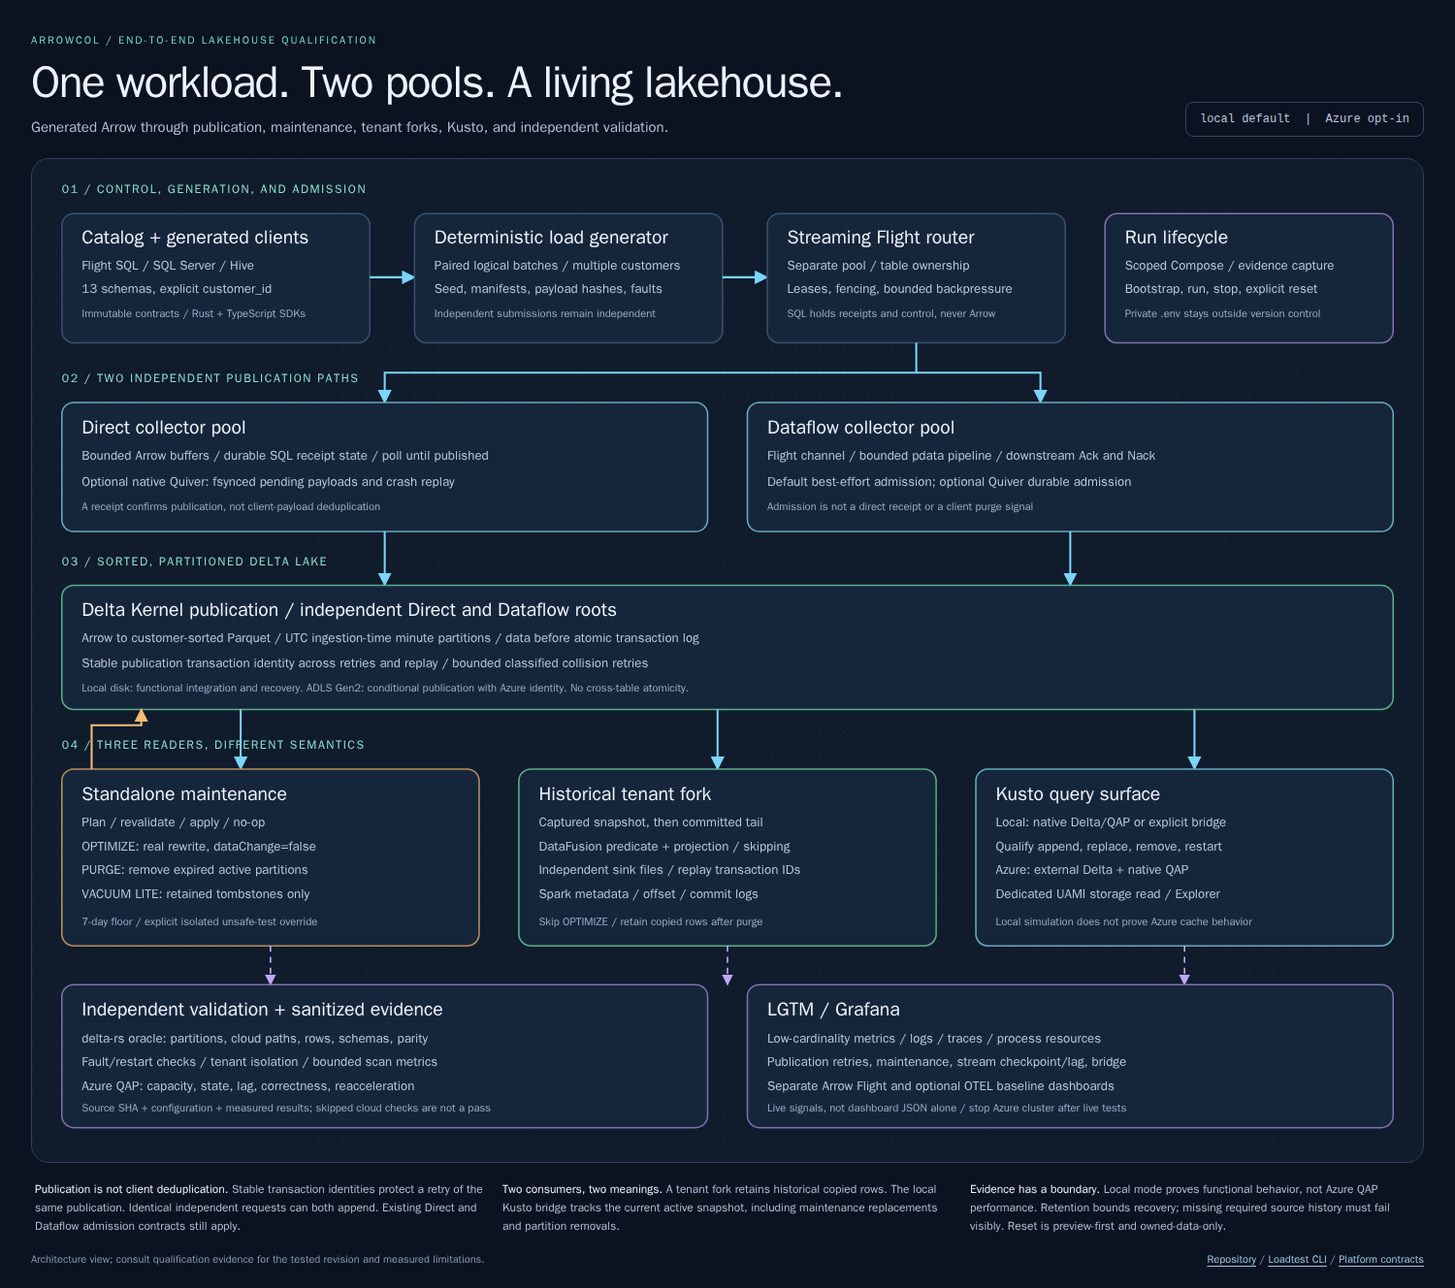
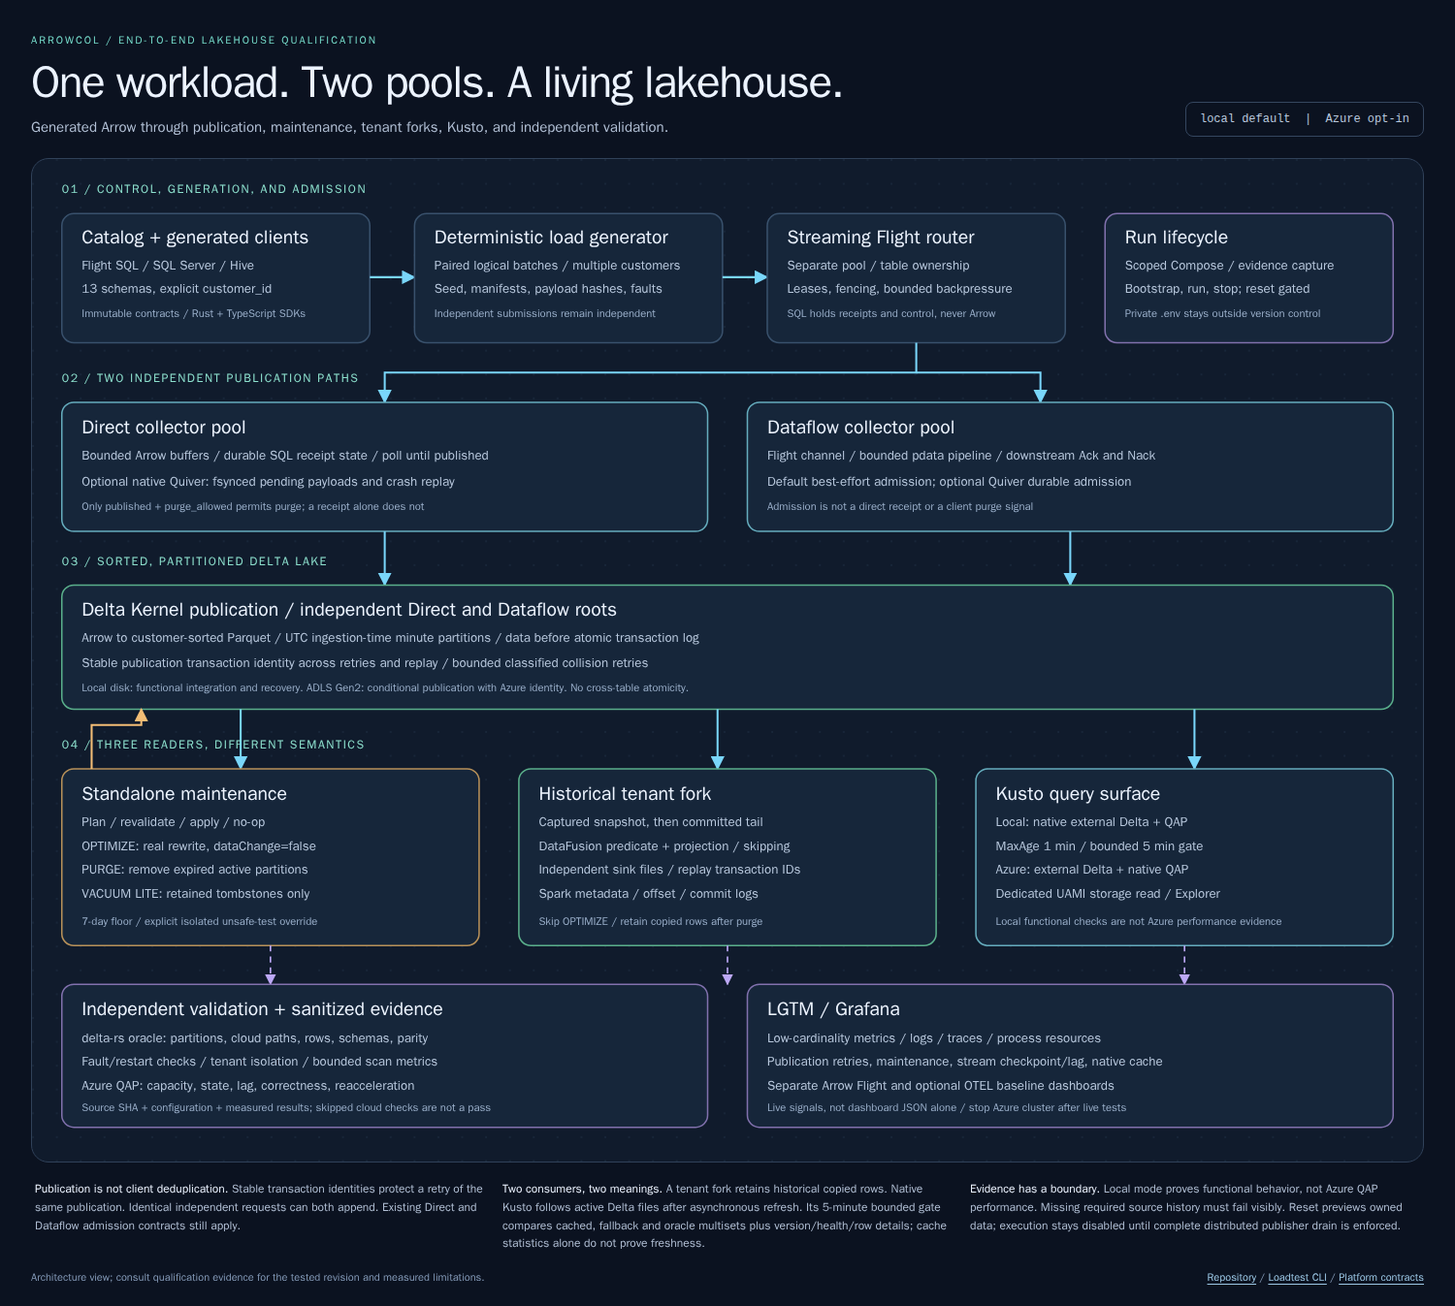
feat(integration): reconcile service images and native lakehouse architecture
Discover seven source images in dynamic CI, add maintenance publication/cache policy and dependency-aware tenant linting. Document native QAP correctness gates, reset execution barrier and explicit layout qualification; refresh actual browser snapshot provenance.

diff --git a/loadtest-architecture.html b/loadtest-architecture.html
@@ -49,7 +49,7 @@
   <div class="canvas" tabindex="0" role="region" aria-label="Lakehouse loadtest architecture; scroll horizontally on small screens">
     <svg xmlns="http://www.w3.org/2000/svg" viewBox="0 0 1400 1010" role="img" aria-labelledby="title description">
       <title id="title">ArrowCol lakehouse loadtest architecture</title>
-      <desc id="description">Thirteen multi-customer schemas generate paired Arrow traffic through a router to independent Direct and Dataflow collector pools. SQL Server and Hive own catalog and control metadata, not payloads. Optional Quiver persists pending Arrow. Delta Kernel publishes sorted, ingestion-time-partitioned Parquet to independent local or ADLS roots. Standalone maintenance optimizes, purges and vacuums safely. A historical tenant fork captures a snapshot then tails data changes into an independent sink with Spark-compatible recovery logs. Local Kusto uses qualified native external Delta and QAP or an explicit active-snapshot bridge; Azure Kusto uses managed identity, external Delta and query acceleration. An independent delta-rs oracle validates results. Metrics, logs and traces feed LGTM. Cloud performance and local functional evidence remain distinct.</desc>
+      <desc id="description">Thirteen multi-customer schemas generate paired Arrow traffic through a router to independent Direct and Dataflow collector pools. SQL Server and Hive own catalog and control metadata, not payloads. Optional Quiver persists pending Arrow. Delta Kernel publishes sorted, ingestion-time-partitioned Parquet to independent local or ADLS roots. Standalone maintenance optimizes, purges and vacuums safely. A historical tenant fork captures a snapshot then tails data changes into an independent sink with Spark-compatible recovery logs. Local Kusto uses native external Delta and QAP with asynchronous cache refresh; Azure Kusto uses managed identity, external Delta and query acceleration. An independent delta-rs oracle validates results. Metrics, logs and traces feed LGTM. Cloud performance and local functional evidence remain distinct.</desc>
       <defs>
         <pattern id="grid" width="24" height="24" patternUnits="userSpaceOnUse"><circle cx="1" cy="1" r=".7" fill="#24354c"/></pattern>
         <marker id="arrow" viewBox="0 0 10 10" refX="9" refY="5" markerWidth="7" markerHeight="7" orient="auto"><path d="M0 0 10 5 0 10Z" fill="#79d6fa"/></marker>
@@ -78,7 +78,7 @@
       <rect x="1080" y="55" width="290" height="130" rx="12" class="box" style="stroke:#8171ad"/>
       <text x="1100" y="85" class="title">Run lifecycle</text>
       <text x="1100" y="111" class="body">Scoped Compose / evidence capture</text>
-      <text x="1100" y="135" class="body">Bootstrap, run, stop, explicit reset</text>
+      <text x="1100" y="135" class="body">Bootstrap, run, stop; reset gated</text>
       <text x="1100" y="159" class="small">Private .env stays outside version control</text>
       <path d="M890 185V215H355V245" class="edge"/>
       <path d="M890 215H1015V245" class="edge"/>
@@ -87,7 +87,7 @@
       <text x="50" y="276" class="title">Direct collector pool</text>
       <text x="50" y="303" class="body">Bounded Arrow buffers / durable SQL receipt state / poll until published</text>
       <text x="50" y="329" class="body">Optional native Quiver: fsynced pending payloads and crash replay</text>
-      <text x="50" y="353" class="small">A receipt confirms publication, not client-payload deduplication</text>
+      <text x="50" y="353" class="small">Only published + purge_allowed permits purge; a receipt alone does not</text>
       <rect x="720" y="245" width="650" height="130" rx="12" class="box" style="stroke:#65acbd"/>
       <text x="740" y="276" class="title">Dataflow collector pool</text>
       <text x="740" y="303" class="body">Flight channel / bounded pdata pipeline / downstream Ack and Nack</text>
@@ -122,11 +122,11 @@
       <text x="510" y="771" class="small">Skip OPTIMIZE / retain copied rows after purge</text>
       <rect x="950" y="614" width="420" height="178" rx="12" class="box" style="stroke:#65acbd"/>
       <text x="970" y="645" class="title">Kusto query surface</text>
-      <text x="970" y="672" class="body">Local: native Delta/QAP or explicit bridge</text>
-      <text x="970" y="696" class="body">Qualify append, replace, remove, restart</text>
+      <text x="970" y="672" class="body">Local: native external Delta + QAP</text>
+      <text x="970" y="696" class="body">MaxAge 1 min / bounded 5 min gate</text>
       <text x="970" y="720" class="body">Azure: external Delta + native QAP</text>
       <text x="970" y="744" class="body">Dedicated UAMI storage read / Explorer</text>
-      <text x="970" y="771" class="small">Local simulation does not prove Azure cache behavior</text>
+      <text x="970" y="771" class="small">Local functional checks are not Azure performance evidence</text>
       <path d="M240 792V831" class="signal"/>
       <path d="M700 792V831" class="signal"/>
       <path d="M1160 792V831" class="signal"/>
@@ -139,15 +139,15 @@
       <rect x="720" y="831" width="650" height="144" rx="12" class="box" style="stroke:#8171ad"/>
       <text x="740" y="862" class="title">LGTM / Grafana</text>
       <text x="740" y="889" class="body">Low-cardinality metrics / logs / traces / process resources</text>
-      <text x="740" y="913" class="body">Publication retries, maintenance, stream checkpoint/lag, bridge</text>
+      <text x="740" y="913" class="body">Publication retries, maintenance, stream checkpoint/lag, native cache</text>
       <text x="740" y="937" class="body">Separate Arrow Flight and optional OTEL baseline dashboards</text>
       <text x="740" y="959" class="small">Live signals, not dashboard JSON alone / stop Azure cluster after live tests</text>
     </svg>
   </div>
   <div class="notes">
     <div><strong>Publication is not client deduplication.</strong> Stable transaction identities protect a retry of the same publication. Identical independent requests can both append. Existing Direct and Dataflow admission contracts still apply.</div>
-    <div><strong>Two consumers, two meanings.</strong> A tenant fork retains historical copied rows. The local Kusto bridge tracks the current active snapshot, including maintenance replacements and partition removals.</div>
-    <div><strong>Evidence has a boundary.</strong> Local mode proves functional behavior, not Azure QAP performance. Retention bounds recovery; missing required source history must fail visibly. Reset is preview-first and owned-data-only.</div>
+    <div><strong>Two consumers, two meanings.</strong> A tenant fork retains historical copied rows. Native Kusto follows active Delta files after asynchronous refresh. Its 5-minute bounded gate compares cached, fallback and oracle multisets plus version/health/row details; cache statistics alone do not prove freshness.</div>
+    <div><strong>Evidence has a boundary.</strong> Local mode proves functional behavior, not Azure QAP performance. Missing required source history must fail visibly. Reset previews owned data; execution stays disabled until complete distributed publisher drain is enforced.</div>
   </div>
   <footer>
     <span>Architecture view; consult qualification evidence for the tested revision and measured limitations.</span>

diff --git a/tools/scripts/test/image-plan.test.ts b/tools/scripts/test/image-plan.test.ts
@@ -17,6 +17,9 @@ import {
 const workspace = fileURLToPath(new URL('../../../', import.meta.url));
 
 function projectPath(project: string): string {
+  if (project === 'delta-maintenance' || project === 'arrow-tenant-stream') {
+    return `crates/${project}/project.json`;
+  }
   return project === 'hello-world'
     ? 'bin/hello-world/project.json'
     : `projects/${project}/project.json`;
@@ -45,6 +48,8 @@ test('discovers production images and retains the sample publication', () => {
     'arrowcol-dataflow-rust',
     'arrowcol-router-rust',
     'kusto-bridge',
+    'delta-maintenance',
+    'arrow-tenant-stream',
     'kusto-explorer',
   ]);
   assert.deepEqual(RETAINED_RUNTIME_IMAGE_PROJECTS, ['hello-world']);
@@ -99,7 +104,7 @@ const COLLECTOR_IMAGE_PROJECTS = [
 ];
 // Web images compile a wasm UI and serve read-only static assets instead of configuration files.
 const WEB_IMAGE_PROJECTS = ['kusto-explorer'];
-const SERVICE_IMAGE_PROJECTS = ['kusto-bridge'];
+const SERVICE_IMAGE_PROJECTS = ['kusto-bridge', 'delta-maintenance', 'arrow-tenant-stream'];
 
 test('every production runtime image is classified for Dockerfile policy', () => {
   assert.deepEqual(
@@ -111,7 +116,7 @@ test('every production runtime image is classified for Dockerfile policy', () =>
 test('runtime Dockerfiles pin build and runtime bases and enforce production boundaries', () => {
   for (const project of PRODUCTION_RUNTIME_IMAGE_PROJECTS) {
     const dockerfile = readFileSync(
-      join(workspace, `projects/${project}/Dockerfile`),
+      join(workspace, projectPath(project).replace(/project\.json$/u, 'Dockerfile')),
       'utf8',
     );
     assert.match(
@@ -133,9 +138,17 @@ test('runtime Dockerfiles pin build and runtime bases and enforce production bou
       project,
     );
     assert.match(dockerfile, /COPY submodules\/otel-arrow/u, project);
-    assert.match(dockerfile, /ca-certificates/u, project);
-    if (!SERVICE_IMAGE_PROJECTS.includes(project)) {
-      assert.match(dockerfile, /ca-certificates curl/u, project);
+    if (dockerfile.includes('sh /tmp/install-azure-cli.sh')) {
+      assert.match(
+        dockerfile,
+        /COPY(?: --chmod=\d+)? infra\/docker\/install-azure-cli\.sh \/tmp\/install-azure-cli\.sh/u,
+        project,
+      );
+    } else {
+      assert.match(dockerfile, /ca-certificates/u, project);
+      if (!SERVICE_IMAGE_PROJECTS.includes(project)) {
+        assert.match(dockerfile, /ca-certificates curl/u, project);
+      }
     }
     assert.match(
       dockerfile,
@@ -165,10 +178,28 @@ test('runtime Dockerfiles pin build and runtime bases and enforce production bou
       assert.match(dockerfile, /find \/out\/www -type f -exec chmod 0444/u, project);
       assert.match(dockerfile, /COPY --from=builder --chmod=0555/u, project);
     } else {
-      assert.match(dockerfile, /install -D --mode=0555/u, project);
+      assert.match(dockerfile, /(?:install (?:-D )?--mode=0555|COPY --from=builder --chmod=0555)/u, project);
       assert.match(dockerfile, /COPY --from=builder/u, project);
     }
   }
+});
+
+test('Kernel consumer lint caches include their library dependencies', () => {
+  const projects = workspaceProjects();
+  for (const project of ['delta-maintenance', 'arrow-tenant-stream']) {
+    const config = projects[project];
+    assert(config, project);
+    assert(config.implicitDependencies?.includes('arrow-deltalake'), project);
+    assert.deepEqual(config.targets?.lint?.inputs, ['default', '^default'], project);
+  }
+});
+
+test('shared CLI helper installs TLS prerequisites through a signed pinned repository', () => {
+  const helper = readFileSync(join(workspace, 'infra/docker/install-azure-cli.sh'), 'utf8');
+  assert.match(helper, /apt-get install -y --no-install-recommends ca-certificates curl gpg/u);
+  assert.match(helper, /sha256sum --check --strict -/u);
+  assert.match(helper, /signed-by=\/usr\/share\/keyrings\/arrowcol-azure-cli\.gpg/u);
+  assert.match(helper, /apt-get install -y --no-install-recommends azure-cli=\d+\.\d+\.\d+-1~bookworm/u);
 });
 
 test('Explorer context override retains root exclusions before browser-only exclusions', () => {
@@ -241,7 +272,10 @@ test('publish workflow discovers, smokes, publishes, and verifies the matrix wit
 
   const paths = new Set(workflow.on.push.paths);
   for (const project of PRODUCTION_RUNTIME_IMAGE_PROJECTS) {
-    assert(paths.has(`projects/${project}/**`), project);
+    const source = projectPath(project).startsWith('crates/')
+      ? 'crates/**'
+      : `projects/${project}/**`;
+    assert(paths.has(source), project);
   }
   assert(paths.has('bin/hello-world/**'));
   assert(paths.has('crates/**'));

diff --git a/tools/scripts/test/clean.test.ts b/tools/scripts/test/clean.test.ts
@@ -173,6 +173,7 @@ test('every project exposes clean and the root includes every child', () => {
     'crates/arrowcol-sql-server/project.json',
     'crates/arrow-deltalake/project.json',
     'crates/arrow-tenant-stream/project.json',
+    'crates/delta-maintenance/project.json',
     'crates/greeting/project.json',
     'crates/otel-deltalake-exporter/project.json',
     'projects/arrowcol-dataflow-rust/project.json',

diff --git a/tools/scripts/src/image-plan.ts b/tools/scripts/src/image-plan.ts
@@ -17,6 +17,8 @@ export const PRODUCTION_RUNTIME_IMAGE_PROJECTS = [
   'arrowcol-dataflow-rust',
   'arrowcol-router-rust',
   'kusto-bridge',
+  'delta-maintenance',
+  'arrow-tenant-stream',
   'kusto-explorer',
 ] as const;
 

diff --git a/docs/architecture/loadtest/README.md b/docs/architecture/loadtest/README.md
@@ -38,18 +38,28 @@ comes from `ARROWCOL_MODE`, falling back to `local`.
 | Surface | Local mode | Azure mode |
 | --- | --- | --- |
 | Source Delta | Local disk, separate pool roots | ADLS Gen2, separate pool roots |
-| Kusto | Emulator: qualified native external Delta/QAP, or an explicit active-snapshot bridge | External Delta tables with native Query Acceleration Policy |
+| Kusto | Pinned emulator: native external Delta with Query Acceleration Policy | External Delta tables with native Query Acceleration Policy |
 | Storage identity | Scoped local mounts | Existing Azure CLI writer identity; dedicated Kusto storage-read UAMI |
 | Evidence | Functional integration, active-file visibility, recovery | Real QAP state, capacity, lag, correctness, and reacceleration |
 
-The emulator is not a performance benchmark or proof of Azure cache internals.
-Native external-Delta/QAP support must be qualified against the pinned emulator
-and bounded refresh/recovery checks, not inferred from management-command
-acceptance alone. When the explicit bridge is selected, it tracks the current
-active snapshot, including OPTIMIZE replacements and partition removals.
-A tenant fork has intentionally different
-semantics: capture a snapshot, tail logical appends, ignore OPTIMIZE, and retain
-already-copied rows after source purge.
+The emulator is a functional integration surface, not an Azure performance
+benchmark. Native external Delta/QAP is the default; an experimental bridge is
+not an automatic fallback. The local policy uses `MaxAge=1min`, with a bounded
+five-minute convergence gate after append, OPTIMIZE, delete, partition PURGE,
+and VACUUM. Longer `MaxAge` can retain stale cached rows.
+
+Cache statistics alone do not establish freshness: a reported 100% acceleration,
+zero pending files, and recent update time can coexist with stale query results.
+Require current `details.TableVersion`, healthy `details.IsHealthy`, expected
+`details.AcceleratedRows`, and actual cached row-multiset equality with both the
+independent oracle and uncached fallback. Record observed convergence separately
+from the bounded deadline; focused native-probe acceptance does not prove the
+integrated 13-schema workload or Explorer/stress acceptance.
+
+Native Kusto follows the current active snapshot after asynchronous refresh,
+including OPTIMIZE replacements and partition removals. A tenant fork has
+intentionally different semantics: capture a snapshot, tail logical appends,
+ignore OPTIMIZE, and retain already-copied rows after source purge.
 
 Standalone maintenance plans and revalidates work before applying it. OPTIMIZE
 rewrites real files with `dataChange=false`; PURGE removes existing expired
@@ -78,7 +88,7 @@ reader, committed snapshot-selected files, manifest hashes, row multisets,
 partition metadata, routing ownership, and recovery evidence. The delta-rs
 reader is a validation oracle, not the production transaction writer.
 
-Metrics, logs, and traces feed LGTM/Grafana. Maintenance, stream/checkpoint, bridge,
+Metrics, logs, and traces feed LGTM/Grafana. Maintenance, stream/checkpoint, native QAP,
 and publication signals must be observed live, not inferred from dashboard JSON.
 Keep the optional OTEL baseline separate from Arrow Flight panels.
 
@@ -86,9 +96,12 @@ Azure configuration remains in a gitignored private `.env`; do not commit
 subscription/resource values or credentials into diagrams, screenshots, logs,
 or public evidence. Cloud checks are explicit and credential-gated: a skipped
 check is not a pass. Bind measurements to the integrated source SHA and record
-limitations. Stop the Azure cluster after live tests. Reset is preview-first,
-requires explicit execution, removes only verified owned data, and preserves
-the account, containers, cluster, and managed identity.
+limitations. Stop the Azure cluster after live tests. Reset is preview-first;
+public execution remains unconditionally disabled until distributed publisher
+admission, uncertain-operation retention, fencing, and definitive drain are
+enforced across every mutator. The intended explicit-execution path removes only
+verified owned data and preserves the account, containers, cluster, and managed
+identity. Preview or offline control-plane tests do not establish live reset safety.
 
 See [storage contracts](../arrowcol-platform/storage.md),
 [delivery guarantees](../arrowcol-platform/delivery-guarantees.md), and

diff --git a/docs/architecture/arrowcol-platform/storage.md b/docs/architecture/arrowcol-platform/storage.md
@@ -86,6 +86,16 @@ replay. The loadtest uses minute partitions and explicit `customer_id` in all
 13 schemas. Customer sorting is a file/row-group layout policy, not a promise of
 global table ordering or end-to-end zero-copy.
 
+The publication path retains physical batches within a bounded file buffer and
+sorts the whole staged file once by customer before encoding Parquet. Production
+defaults are 16,384 rows per row group and 2,048 rows per page. The focused
+8,192-row, two-batch, 16-customer qualification explicitly uses 512-row groups
+and 128-row pages; its one-of-16 matching-group result is not a production
+tiny-receipt pruning claim. Independent publication files often contain only
+one production-sized row group. Direct receipts and DFE publications retain
+their independent file/transaction identities rather than coalescing unrelated
+client requests to manufacture larger groups.
+
 ## Maintenance and downstream ownership
 
 | Consumer | Source behavior | Recovery boundary |
@@ -94,7 +104,7 @@ global table ordering or end-to-end zero-copy.
 | Partition PURGE | Remove existing expired ingestion-time partitions with `dataChange=true` | Derive work from the active snapshot, not guessed directory names |
 | VACUUM LITE | Physically delete eligible retained tombstones, without a new data commit | Seven-day retention floor by default; insufficient history fails visibly; arbitrary orphan discovery is not LITE |
 | Historical tenant fork | Capture a snapshot, then tail committed data changes; skip OPTIMIZE | Independently encoded sink files survive source purge; missing required source history is an error |
-| Local Kusto bridge | Reconcile the current committed active snapshot | Replacements and removals change the visible generation; this is not historical-fork behavior |
+| Native Kusto external Delta/QAP | Follow the current committed active snapshot after asynchronous cache refresh | Replacements and removals must converge within the bounded correctness gate; cached queries must match the independent oracle and uncached fallback |
 
 Tenant sink transactions bind query/batch identity to publication so recovery
 after a sink commit cannot duplicate that batch. Spark-compatible metadata,

diff --git a/docs/architecture/arrowcol-platform/observability.md b/docs/architecture/arrowcol-platform/observability.md
@@ -17,7 +17,7 @@ state. Receipt IDs and lease UUIDs are **not** metric labels.
 | Delta publication | Version collisions, safe retries, exhaustion, publication outcomes, and file/row/byte changes |
 | Standalone maintenance | Plans, applies, no-ops, stale plans, retention decisions, and rewritten/deleted files |
 | Tenant stream | Source cursor, lag/backlog, checkpoint and sink commits, replay, and scan/skipping observations |
-| Local Kusto bridge | Committed source version, active generation, refresh status, visibility lag, and explicit degradation |
+| Native local Kusto/QAP | Committed source version, cached table version, health, accelerated rows, query correctness, convergence lag, and explicit degradation |
 | Azure QAP evidence | Policy/state, accelerated bytes, capacity, query correctness, and touched-file reacceleration |
 
 DFE advertises
@@ -45,7 +45,13 @@ against the tested source revision. Keep tenant IDs, file paths, receipt IDs,
 publication IDs, and checkpoint UUIDs out of metric labels.
 
 Local Kusto is a functional integration surface, not a performance benchmark.
-Its bridge status is separate from Direct receipt publication. Azure QAP stress
+Its asynchronous cache visibility is separate from Direct receipt publication.
+With local `MaxAge=1min`, bound convergence checks to five minutes and require
+current `details.TableVersion`, healthy `details.IsHealthy`, expected
+`details.AcceleratedRows`, and cached row-multiset equality with both the
+independent oracle and uncached fallback. A 100% acceleration statistic, zero
+pending files, or a fresh update timestamp alone can report success while
+cached queries remain stale. Azure QAP stress
 must preserve sanitized policy/state/query observations and distinguish expected
 reacceleration of rewritten files from an unhealthy catalog, full reset, or
 uncached fallback. A skipped credential-gated cloud check is not a cloud pass.

diff --git a/docs/architecture/arrowcol-platform/README.md b/docs/architecture/arrowcol-platform/README.md
@@ -40,8 +40,10 @@ own status and does not change what a Direct `published` receipt means.
 
 Maintenance and streaming run outside the collectors. OPTIMIZE rewrites active
 files without creating new logical rows. A historical tenant fork skips those
-rewrites and owns its sink files, while the local Kusto bridge reconciles the
-active snapshot, including replacements and removals. See
+rewrites and owns its sink files, while native Kusto follows the active snapshot,
+including replacements and removals, after asynchronous cache refresh. Cache
+statistics are not a substitute for comparing actual cached query results with
+the independent oracle and uncached fallback. See
 [storage boundaries](storage.md) and the
 [root loadtest diagram](../../../loadtest-architecture.html).
 
